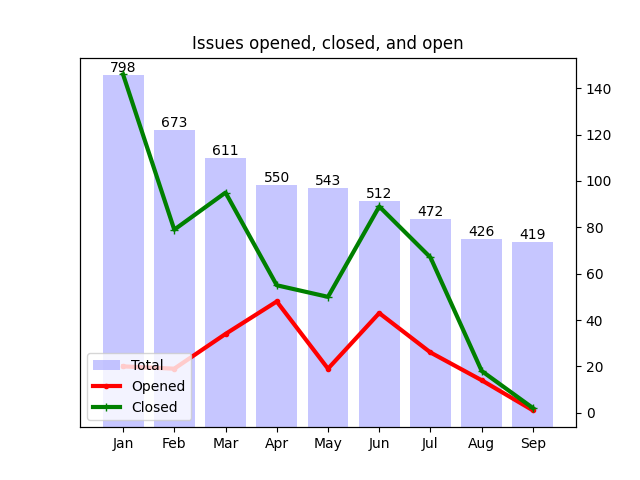
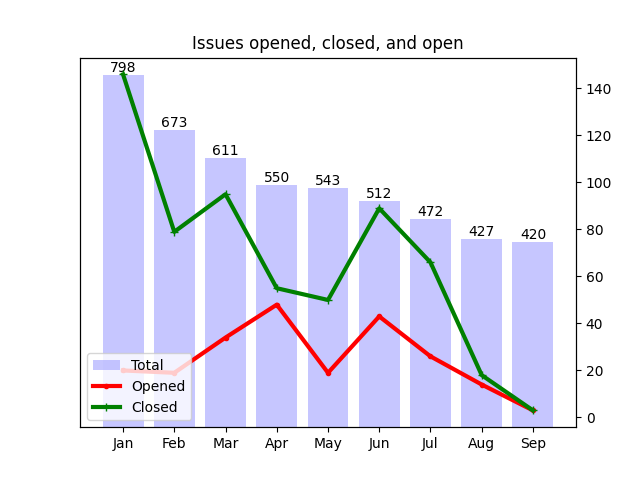
Apply automatic changes

diff --git a/docs/analytics.html b/docs/analytics.html
@@ -100,7 +100,7 @@ td .material-icons { display:inline-flex; vertical-align: top; font-size:1.1rem;
 						<tr>
 							<td>Jul</td>
 							<td>26</td>
-							<td>67</td>
+							<td>66</td>
 						</tr>
 						<tr>
 							<td>Aug</td>
@@ -109,8 +109,8 @@ td .material-icons { display:inline-flex; vertical-align: top; font-size:1.1rem;
 						</tr>
 						<tr>
 							<td>Sep</td>
-							<td>1</td>
-							<td>2</td>
+							<td>3</td>
+							<td>3</td>
 						</tr>
 					</table>
 				</div>
@@ -201,7 +201,7 @@ td .material-icons { display:inline-flex; vertical-align: top; font-size:1.1rem;
 				<tr>
 					<td>1</td>
 					<td>
-						<a href="http://github.com/notofonts/bamum/issues">bamum</a>,  						<a href="http://github.com/notofonts/brahmi/issues">brahmi</a>,  						<a href="http://github.com/notofonts/canadian-aboriginal/issues">canadian-aboriginal</a>,  						<a href="http://github.com/notofonts/cham/issues">cham</a>,  						<a href="http://github.com/notofonts/coptic/issues">coptic</a>,  						<a href="http://github.com/notofonts/deseret/issues">deseret</a>,  						<a href="http://github.com/notofonts/dogra/issues">dogra</a>,  						<a href="http://github.com/notofonts/duployan/issues">duployan</a>,  						<a href="http://github.com/notofonts/elbasan/issues">elbasan</a>,  						<a href="http://github.com/notofonts/georgian/issues">georgian</a>,  						<a href="http://github.com/notofonts/glagolitic/issues">glagolitic</a>,  						<a href="http://github.com/notofonts/gunjala-gondi/issues">gunjala-gondi</a>,  						<a href="http://github.com/notofonts/hanunoo/issues">hanunoo</a>,  						<a href="http://github.com/notofonts/kharoshthi/issues">kharoshthi</a>,  						<a href="http://github.com/notofonts/khmer/issues">khmer</a>,  						<a href="http://github.com/notofonts/khojki/issues">khojki</a>,  						<a href="http://github.com/notofonts/khudawadi/issues">khudawadi</a>,  						<a href="http://github.com/notofonts/lydian/issues">lydian</a>,  						<a href="http://github.com/notofonts/manichaean/issues">manichaean</a>,  						<a href="http://github.com/notofonts/meetei-mayek/issues">meetei-mayek</a>,  						<a href="http://github.com/notofonts/meroitic/issues">meroitic</a>,  						<a href="http://github.com/notofonts/miao/issues">miao</a>,  						<a href="http://github.com/notofonts/multani/issues">multani</a>,  						<a href="http://github.com/notofonts/nko/issues">nko</a>,  						<a href="http://github.com/notofonts/old-hungarian-ui/issues">old-hungarian-ui</a>,  						<a href="http://github.com/notofonts/old-italic/issues">old-italic</a>,  						<a href="http://github.com/notofonts/pahawh-hmong/issues">pahawh-hmong</a>,  						<a href="http://github.com/notofonts/rejang/issues">rejang</a>,  						<a href="http://github.com/notofonts/saurashtra/issues">saurashtra</a>,  						<a href="http://github.com/notofonts/sign-writing/issues">sign-writing</a>,  						<a href="http://github.com/notofonts/sogdian/issues">sogdian</a>,  						<a href="http://github.com/notofonts/tai-le/issues">tai-le</a>,  						<a href="http://github.com/notofonts/tai-tham/issues">tai-tham</a>,  						<a href="http://github.com/notofonts/takri/issues">takri</a>,  						<a href="http://github.com/notofonts/tangsa/issues">tangsa</a>,  						<a href="http://github.com/notofonts/thai/issues">thai</a> 
+						<a href="http://github.com/notofonts/ahom/issues">ahom</a>,  						<a href="http://github.com/notofonts/bamum/issues">bamum</a>,  						<a href="http://github.com/notofonts/brahmi/issues">brahmi</a>,  						<a href="http://github.com/notofonts/canadian-aboriginal/issues">canadian-aboriginal</a>,  						<a href="http://github.com/notofonts/cham/issues">cham</a>,  						<a href="http://github.com/notofonts/coptic/issues">coptic</a>,  						<a href="http://github.com/notofonts/deseret/issues">deseret</a>,  						<a href="http://github.com/notofonts/dogra/issues">dogra</a>,  						<a href="http://github.com/notofonts/duployan/issues">duployan</a>,  						<a href="http://github.com/notofonts/elbasan/issues">elbasan</a>,  						<a href="http://github.com/notofonts/georgian/issues">georgian</a>,  						<a href="http://github.com/notofonts/glagolitic/issues">glagolitic</a>,  						<a href="http://github.com/notofonts/gunjala-gondi/issues">gunjala-gondi</a>,  						<a href="http://github.com/notofonts/hanunoo/issues">hanunoo</a>,  						<a href="http://github.com/notofonts/kharoshthi/issues">kharoshthi</a>,  						<a href="http://github.com/notofonts/khmer/issues">khmer</a>,  						<a href="http://github.com/notofonts/khojki/issues">khojki</a>,  						<a href="http://github.com/notofonts/khudawadi/issues">khudawadi</a>,  						<a href="http://github.com/notofonts/lydian/issues">lydian</a>,  						<a href="http://github.com/notofonts/manichaean/issues">manichaean</a>,  						<a href="http://github.com/notofonts/meetei-mayek/issues">meetei-mayek</a>,  						<a href="http://github.com/notofonts/meroitic/issues">meroitic</a>,  						<a href="http://github.com/notofonts/miao/issues">miao</a>,  						<a href="http://github.com/notofonts/multani/issues">multani</a>,  						<a href="http://github.com/notofonts/nko/issues">nko</a>,  						<a href="http://github.com/notofonts/old-hungarian-ui/issues">old-hungarian-ui</a>,  						<a href="http://github.com/notofonts/old-italic/issues">old-italic</a>,  						<a href="http://github.com/notofonts/pahawh-hmong/issues">pahawh-hmong</a>,  						<a href="http://github.com/notofonts/rejang/issues">rejang</a>,  						<a href="http://github.com/notofonts/saurashtra/issues">saurashtra</a>,  						<a href="http://github.com/notofonts/sign-writing/issues">sign-writing</a>,  						<a href="http://github.com/notofonts/sogdian/issues">sogdian</a>,  						<a href="http://github.com/notofonts/tai-le/issues">tai-le</a>,  						<a href="http://github.com/notofonts/tai-tham/issues">tai-tham</a>,  						<a href="http://github.com/notofonts/takri/issues">takri</a>,  						<a href="http://github.com/notofonts/tangsa/issues">tangsa</a>,  						<a href="http://github.com/notofonts/thai/issues">thai</a> 
 					</td>
 				</tr>
 				<tr>
@@ -237,13 +237,13 @@ td .material-icons { display:inline-flex; vertical-align: top; font-size:1.1rem;
 				<tr>
 					<td>7</td>
 					<td>
-						<a href="http://github.com/notofonts/hebrew/issues">hebrew</a>,  						<a href="http://github.com/notofonts/kannada/issues">kannada</a>,  						<a href="http://github.com/notofonts/oriya/issues">oriya</a>,  						<a href="http://github.com/notofonts/symbols/issues">symbols</a> 
+						<a href="http://github.com/notofonts/hebrew/issues">hebrew</a>,  						<a href="http://github.com/notofonts/kannada/issues">kannada</a>,  						<a href="http://github.com/notofonts/oriya/issues">oriya</a> 
 					</td>
 				</tr>
 				<tr>
 					<td>8</td>
 					<td>
-						<a href="http://github.com/notofonts/devanagari/issues">devanagari</a>,  						<a href="http://github.com/notofonts/malayalam/issues">malayalam</a> 
+						<a href="http://github.com/notofonts/devanagari/issues">devanagari</a>,  						<a href="http://github.com/notofonts/malayalam/issues">malayalam</a>,  						<a href="http://github.com/notofonts/symbols/issues">symbols</a> 
 					</td>
 				</tr>
 				<tr>
@@ -320,7 +320,7 @@ td .material-icons { display:inline-flex; vertical-align: top; font-size:1.1rem;
 
 									<a href="http://github.com/notofonts/math/issues">math</a>: 9, 
 
-									<a href="http://github.com/notofonts/symbols/issues">symbols</a>: 7, 
+									<a href="http://github.com/notofonts/symbols/issues">symbols</a>: 8, 
 
 									<a href="http://github.com/notofonts/syloti-nagri/issues">syloti-nagri</a>: 5, 
 
@@ -401,6 +401,8 @@ td .material-icons { display:inline-flex; vertical-align: top; font-size:1.1rem;
 									<a href="http://github.com/notofonts/kaithi/issues">kaithi</a>: 3, 
 
 									<a href="http://github.com/notofonts/soyombo/issues">soyombo</a>: 3, 
+
+									<a href="http://github.com/notofonts/ahom/issues">ahom</a>: 1, 
 
 									<a href="http://github.com/notofonts/brahmi/issues">brahmi</a>: 1, 
 
